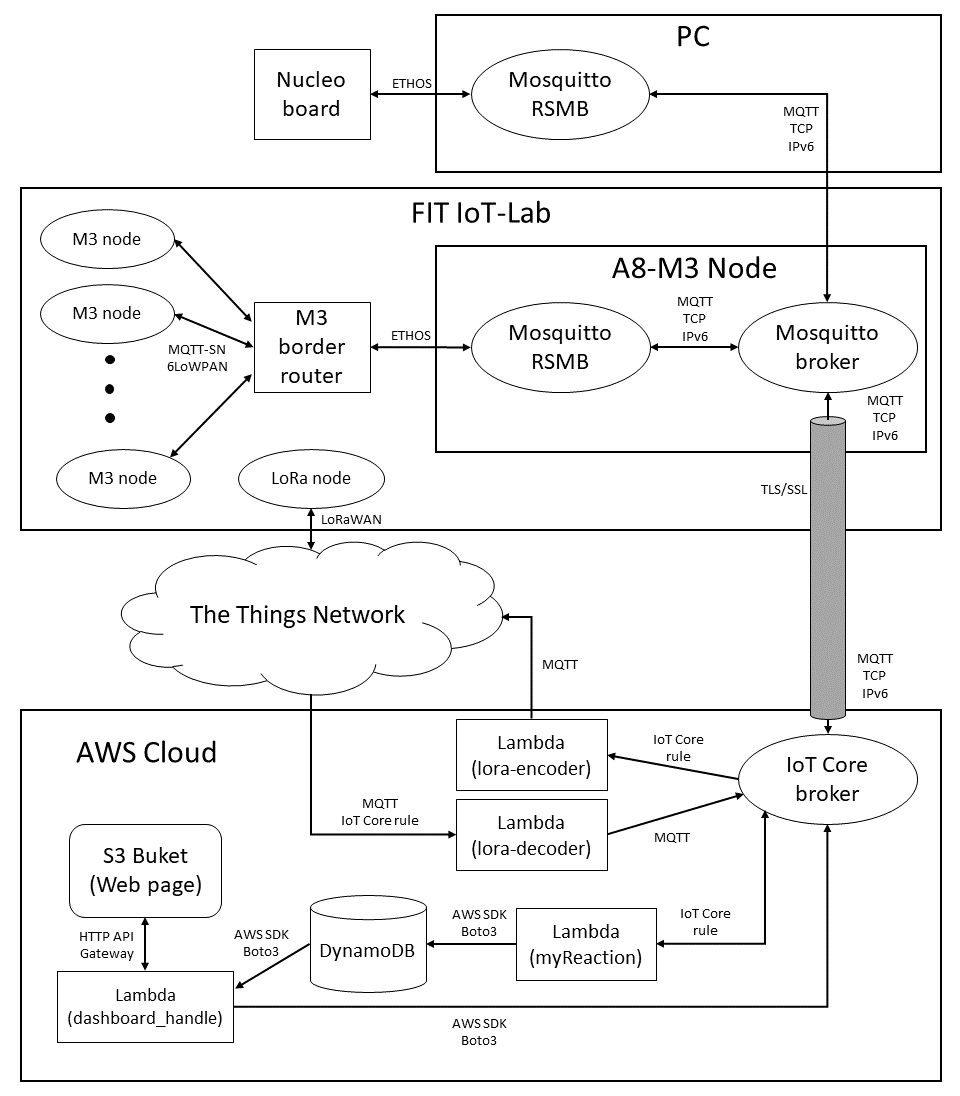
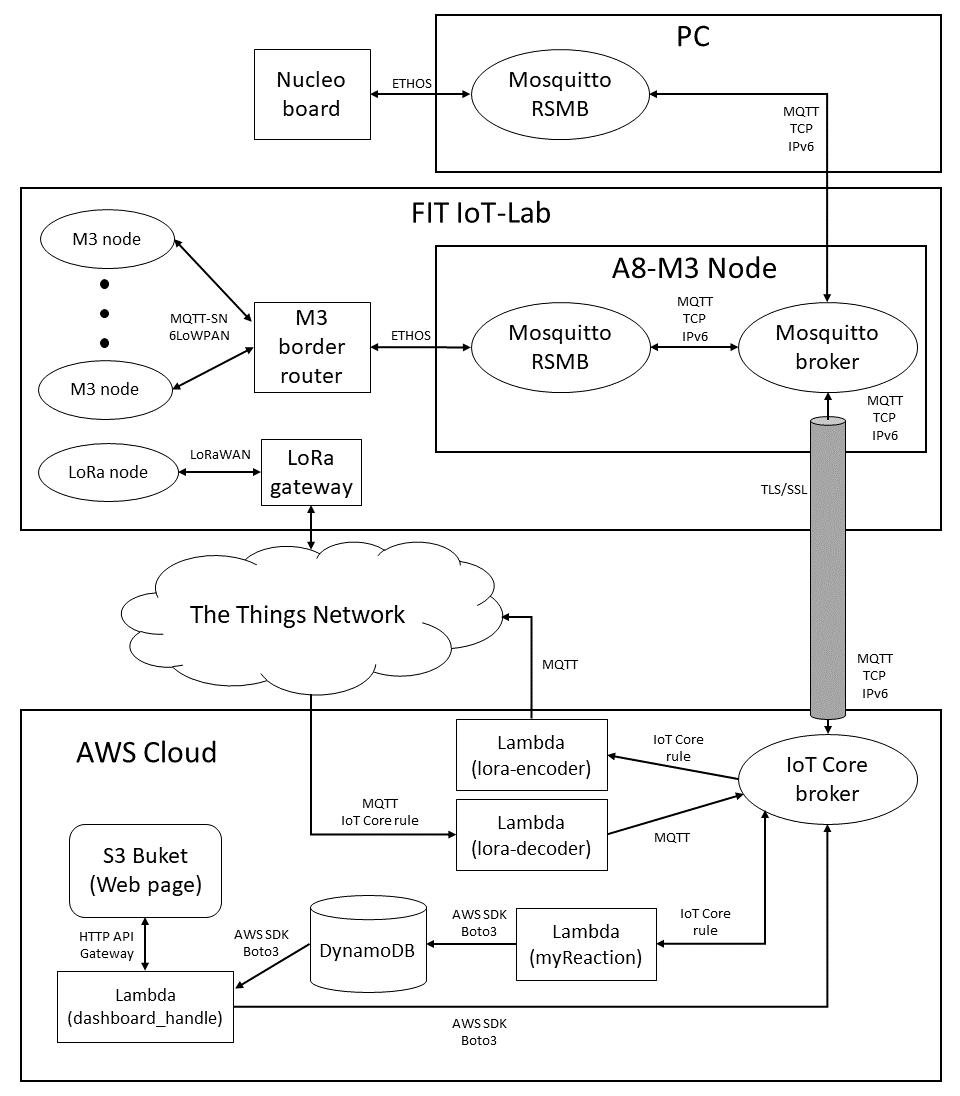
Documentation update

Changed region(s): [[0.0625, 0.2482, 0.4062, 0.4964]]

diff --git a/third_assignment.md b/third_assignment.md
@@ -6,7 +6,7 @@ The actual version of the repository represent the work done up to the third ass
 
 ## Network architecture
 
-The network architecture for the third assignment is composed of a [LoRa compatible node](https://www.iot-lab.info/docs/boards/st-b-l072z-lrwan1/) of the [FIT IoT-Lab](https://www.iot-lab.info/) connected to [The Things Network](https://www.thethingsnetwork.org/) infrastructure. Since for each device connected to the network many details has to be set, we will consider only a single node, but this configuration can be simply extended to multiple devices. Using the integration from TTN to AWS Cloud we can forward the LoRaWAN messages received from the device to AWS Cloud as MQTT messages. Once the MQTT messages reach AWS Cloud, a preliminary edge computation can be done to filter the most relevant data. Then the data considered useful are sent to IoT Core to be processed in the same way described for the previous assignments.
+The network architecture for the third assignment is composed of a [LoRa compatible node](https://www.iot-lab.info/docs/boards/st-b-l072z-lrwan1/) of the [FIT IoT-Lab](https://www.iot-lab.info/) connected to [The Things Network](https://www.thethingsnetwork.org/) infrastructure through a LoRa gateway of the IoT-Lab. Since for each device connected to the network many details has to be set, we will consider only a single node, but this configuration can be simply extended to multiple devices. Using the integration from TTN to AWS Cloud we can forward the LoRaWAN messages received from the device to AWS Cloud as MQTT messages. Once the MQTT messages reach AWS Cloud, a simple edge computation is done to filter the most relevant data. Then the data considered useful are sent to IoT Core to be processed in the same way described for the previous assignments.
 
 <img src=src/network3.png width="800">
 
@@ -18,9 +18,27 @@ The rule can be summarized as follows:
 
 **If** *is day time* **and** *the light value is under 20 lux*, **then** *ignore the sensor reading*
 
+The edge implementation is done inside the `lora-decoder` lambda function which reformats and forwards only the relevant MQTT messages. The forwarded messages have the structure of the messages used in the previous assignment so to be processed in the same way.
+
+## Performance evaluation
+
+#### Power consumption
+
+In the FIT IOT-Lab it was not possible to monitor the power consumption of the nodes as done for the previous assignment, but in general we can say that the power consumption is lower than the M3 nodes of the second assignment. In addiction we don't need to have two extra nodes in the IoT-Lab to realize the infrastructure.
+
+#### Network performance
+
+The use of LoRa instead of 6LoWPAN showed a modification in the periodicity of the measurements of about 3s due to the complexity of the encrypting operations that has to be done before sending a message. The overall network latency has also increased of about 200ms due to the operations done on the edge. The change in the network latency was not an issue for this specific system, but could be a big limitation in other cases. The packet loss was zero, but this can be due to the small number of nodes in the network (tested on a maximum of 3 nodes).
+
+Is important to mention that LoRaWAN uses a different frequency band with respect to 6LoWPAN, so we don't have interference with WiFi devices. In addition, since LoRaWAN and The Things Network encrypt the messages, the use of this technology is for sure an upgrade with respect to the previous assignment where packets where unsecured. On the other hand a limitation is that the throughput of LoRaWAN is up to 5 kbit/s in Europe, 80% less than the 6LoWPAN, but for this system was not an issue.
+
 ## Other considerations
 
+As in the previous assignment also in this case the sensor readings are simulated with a semi-random numbers, this because the focus of this assignment was to develop the LoRa connection and the edge computation.
 
+An advantage of using the LoRa devices is that RIOT applications using LoRa are in generally smaller in size with respect to the one using 6LoWPAN. For this system this was not a relevant aspect, but in general it could be a useful consideration.
+
+The consideration about the use of multiple sensor are the same discussed for the second assignment, the only difference in this case is in the edge computation. Even if the edge computation developed for this assignment is trivial, its potential is big since it can be used to group the sensor reading from the devices placed in the same room or in the same floor. In this way the amount of cloud operations can be reduced a lot. 
 
 ## Hands-on walkthrough
 
@@ -28,7 +46,7 @@ For the third assignment the interaction with the environment is simulated by a 
 
 ### Setup a TTN device
 
-From The Things Network community edition console, create an application. From the application console add a new device with manual configuration. Select the OTAA activation mode and the version 1.0.2 of LoRaWAN. Configure the AppEUI and the DevEUI at your choice, they will be used later. Then select SF9 as frequency plan and the REV B as regional parameter version. Finally generate the AppKey and finalize the device creation.
+From The Things Network community edition console, create an application. From the application console add a new device with manual configuration. Select the OTAA activation mode and the version 1.0.2 of LoRaWAN. Configure the AppEUI at your choice, while the DevEUI has to be the 16 digit number composed by repeating 8 times the `NODE_ID` number (more information later in the RIOT setup description). Then select SF9 as frequency plan and the REV B as regional parameter version. Finally generate the AppKey and finalize the device creation.
 
 From the application console add an API key with all the individual rights granted and save it for the [AWS setup](aws/).
 
@@ -56,7 +74,7 @@ Compile the code for the sensor node with the command
 
     make NODE_ID=<XX>
 
-where you have to make sure to use a different node ID number for each of the sensor nodes. Use numbers from 90 to 99.
+where you have to make sure to use a different `NODE_ID` number for each of the sensor nodes. Use numbers from 90 to 99.
 
 Flash the application on the node of the experiment. If you want to access the shell of the node use the following command from the FIT IoT-Lab terminal
 

diff --git a/second_assignment.md b/second_assignment.md
@@ -48,6 +48,8 @@ Network security was not the main focus of this assignment, in fact the wireless
 
 ## Other considerations
 
+For simplicity the code developed for the M3 nodes uses semi-random sensor readings, but this is fine since the goal of this assignment was to test the network infrastructure in general, the considerations about the real sensors have already been done. 
+
 In this system the use of multiple sensors could be useful to monitor multiple rooms at the same time and compare their use. Having overlapping observation areas can be useful for the light measurements since the light coming from the windows may be focused only in some places of the room. In this case the reactive behavior can be used to close the curtains only for the windows where a lot of light is coming. Since being fault tolerant for this system is not so crucial, having sensors redundancy may result only in an energy waste, so we can conclude that the maximum reasonable number of sensors for each room is two.
 
 Talking about the wireless network the main limitation is the interference from sensor to sensor if the messages are not synchronized, in addition also the use of WiFi by other devices inside the room can cause problems. The consequence of interference is that some sensors readings or actuation commands may be lost, but, as long as the number of messages lost is minimum, it will cause only a delay in the system reactions.
